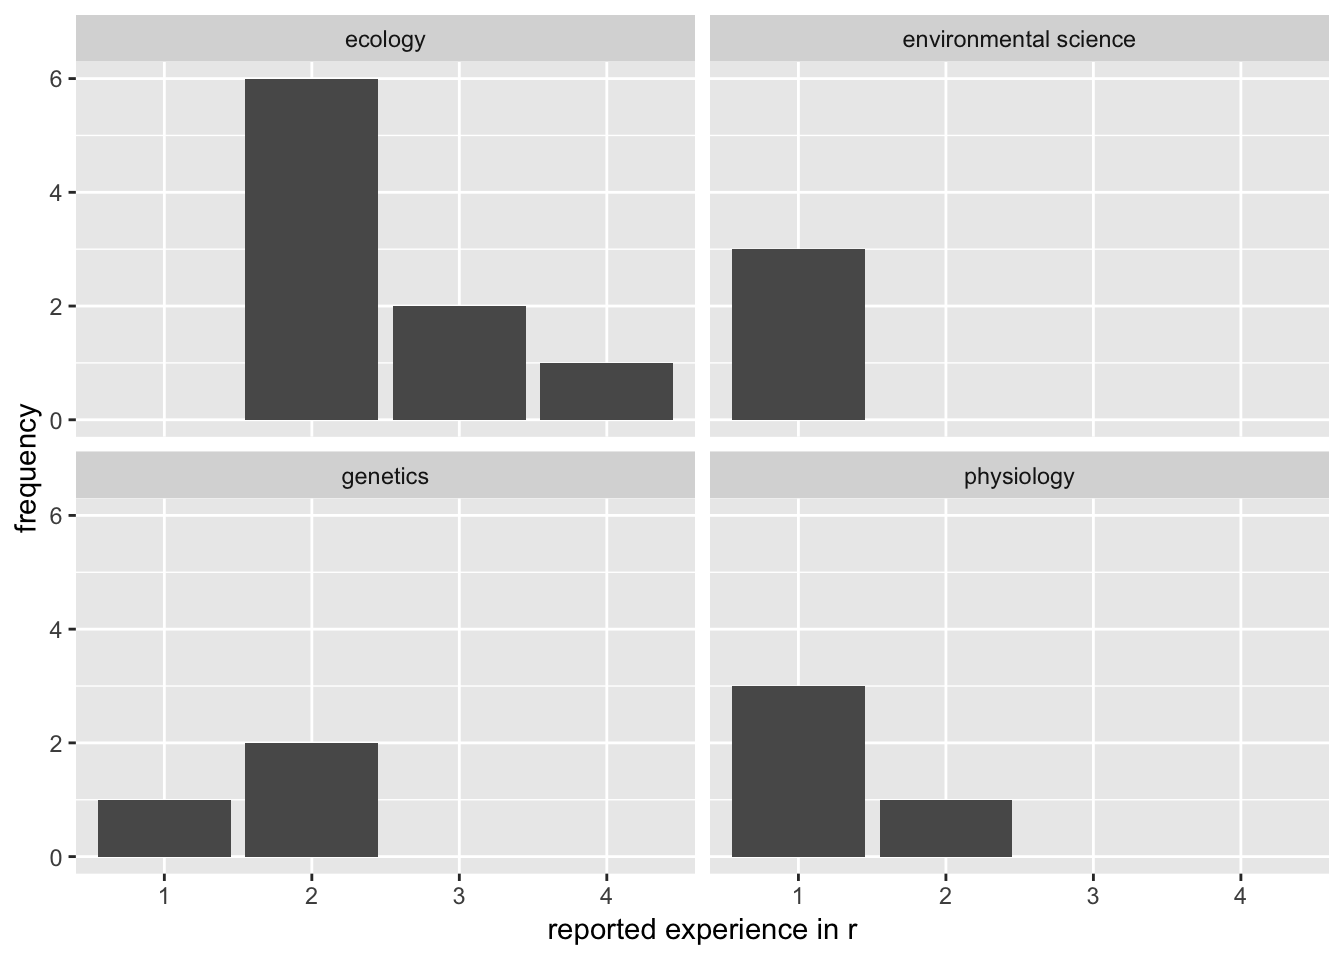
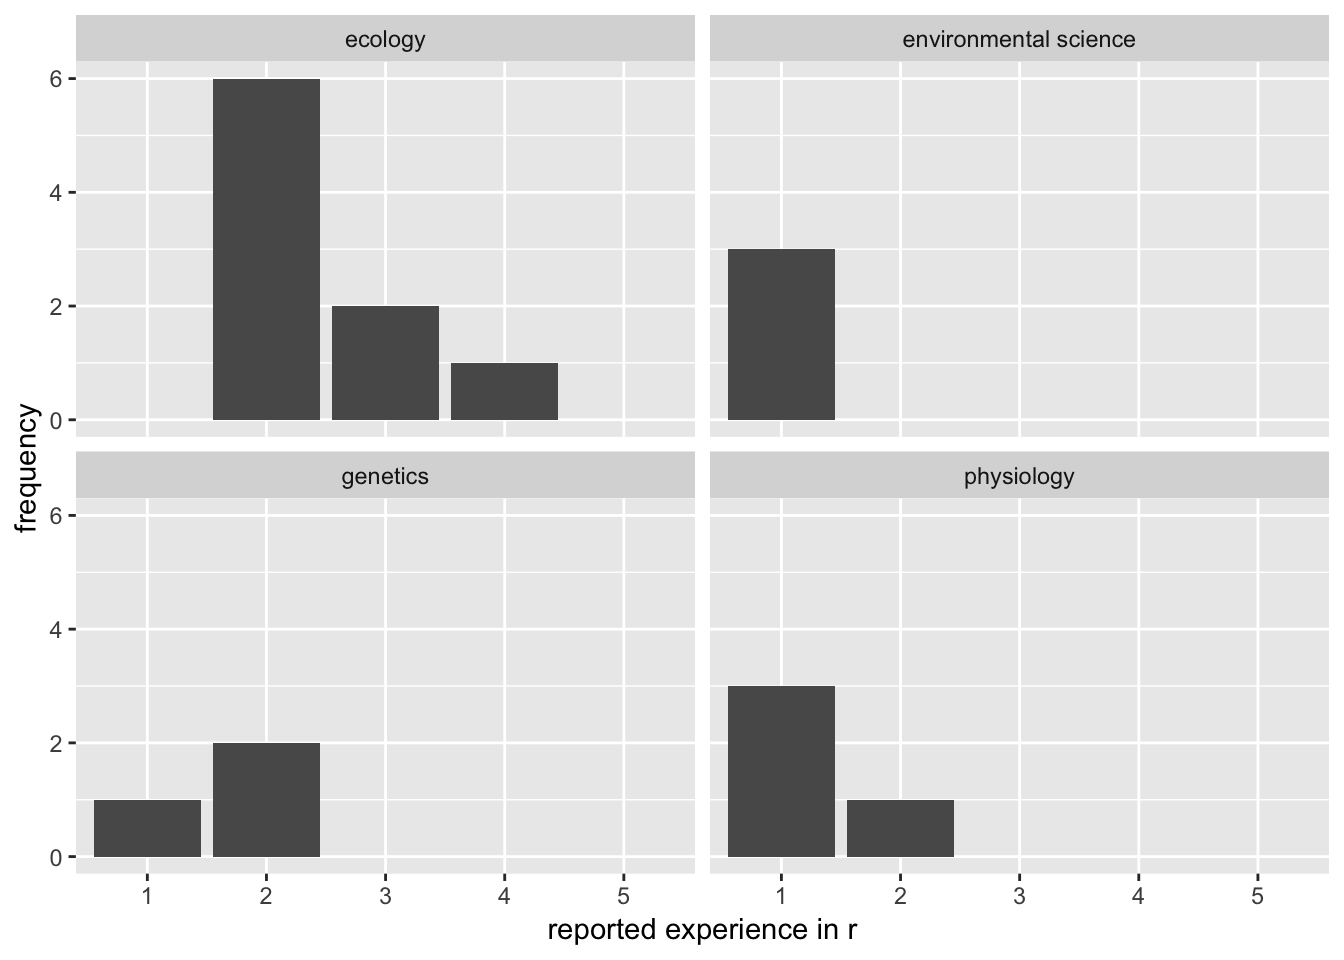
solved limits on histogram

diff --git a/lesson1.html b/lesson1.html
@@ -484,7 +484,8 @@ data</code></pre>
 <pre class="r"><code>ggplot(data, aes(as.character(r.experience))) +
   geom_histogram(stat = &quot;count&quot;) +
   labs(x= &quot;reported experience in r&quot;, y = &quot;frequency&quot;) +
- facet_wrap(~discipline)#r.experience needs to be a character so that ggplot can count up frequency at the each level </code></pre>
+ facet_wrap(~discipline) + 
+  scale_x_discrete(limits = c(&quot;1&quot;, &quot;2&quot;, &quot;3&quot;, &quot;4&quot;, &quot;5&quot;))</code></pre>
 <p><img src="lesson1_files/figure-html/2018.data-2.png" width="672" /></p>
 <pre class="r"><code>ggplot(data, aes(discipline, r.experience)) +
   geom_boxplot() + labs(y= &quot;reported experience in r&quot;)</code></pre>
